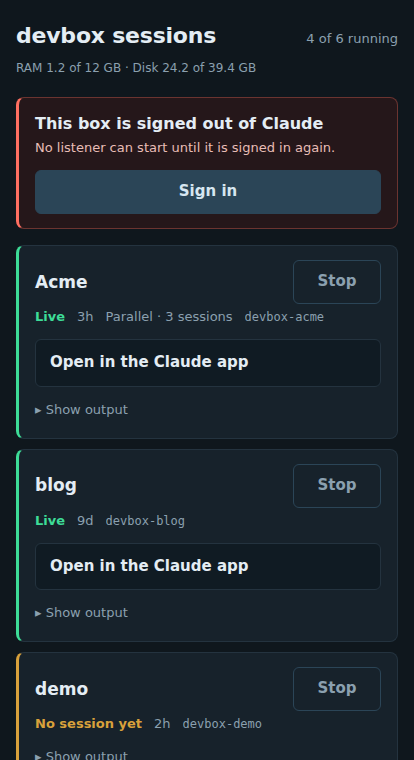
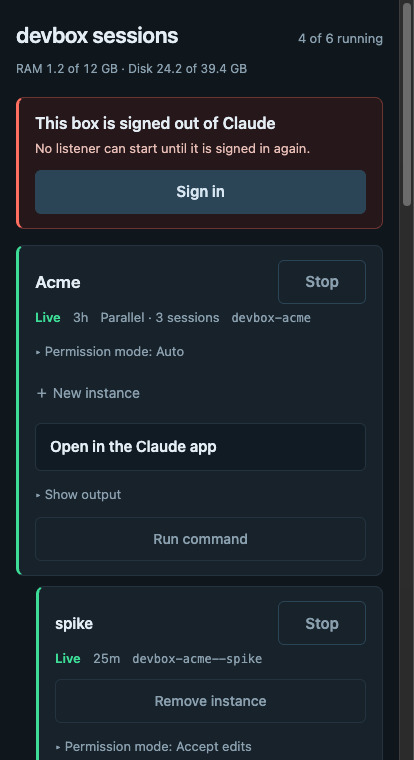
docs: screenshots show permission mode, an instance and Run command
The demo server now fabricates an instance row (acme--spike), permission
modes on three rows and one finished Run command, so the README images
show the launcher as it is. A third image shows the Run command modal.

diff --git a/docs/demo_server.py b/docs/demo_server.py
@@ -16,8 +16,10 @@ from pathlib import Path
 
 import uvicorn
 
+from launcher import discovery
 from launcher.app import create_app
 from launcher.discovery import Project
+from launcher.runctl import RunStatus
 from launcher.tmuxctl import CONNECTED, FAILED, READY, STOPPED, Status
 
 BASE = Path.home() / "projects"
@@ -38,6 +40,9 @@ STATUSES = {
     # A group project running several sessions in worktree mode.
     "acme": Status(running=True, state=CONNECTED, age=10_800, sessions=3,
                    url="https://claude.ai/code?environment=env_01Rb8TnKqW3xMzJ5vHd7Ls2Y"),
+    # An instance of acme: its own worktree and branch, one live session.
+    "acme--spike": Status(running=True, state=CONNECTED, age=1_500, sessions=1,
+                          url="https://claude.ai/code?environment=env_01Tz6KpLmQr8WvXn3Hd4Jc9F"),
     # A listener you left up over a week ago — the age is the point.
     "blog": Status(running=True, state=CONNECTED, age=777_600, sessions=1,
                    url="https://claude.ai/code?environment=env_01Qw4NmPvXs2LtRk9Bd6Hy3C"),
@@ -75,6 +80,43 @@ class FakeState:
 
     def desired(self):
         return []                # nothing to restore: keeps boot reconcile quiet
+
+    def instances(self):
+        return {"acme": ["spike"]}   # one instance row, indented under acme
+
+    def permission_modes(self):
+        # Everything else shows the default chip ("Ask").
+        return {"acme": "auto", "acme--spike": "acceptEdits", "demo": "plan"}
+
+
+class FakeRunner:
+    """Run command: one finished command on blog, nothing elsewhere."""
+    RUNS = {"blog": RunStatus(exists=True, running=False, exit_code=0)}
+
+    def statuses(self):
+        return dict(self.RUNS)
+
+    def status(self, slug):
+        return self.RUNS.get(slug, RunStatus(False, False, None))
+
+    def output(self, slug):
+        return ("From github.com:you/blog\n * branch            main       -> FETCH_HEAD\n"
+                "Already up to date.\n")
+
+    def last(self, slug):
+        return {"command": "git pull github main", "cwd": str(BASE / "blog")}
+
+    def start(self, slug, command, cwd):
+        pass
+
+    def send_input(self, slug, text):
+        pass
+
+    def interrupt(self, slug):
+        pass
+
+    def close(self, slug):
+        pass
 
 
 class FakePointer:
@@ -115,6 +157,15 @@ class FakeDiscovery:
     def discover_projects(self, base_dir):
         return list(PROJECTS)
 
+    # Pure functions of their inputs; the real ones are what the page uses.
+    instance_of = staticmethod(discovery.instance_of)
+
+    def resolve_slug(self, base_dir, slug, instances=None):
+        for project in PROJECTS:
+            if project.slug == slug:
+                return project
+        return None
+
 
 def main() -> None:
     parser = argparse.ArgumentParser()
@@ -127,6 +178,9 @@ def main() -> None:
         base_dir_fn=lambda: BASE,
         tmx=FakeTmux(), disc=FakeDiscovery(), st=FakeState(), ptr=FakePointer(),
         git=FakeGit(), host=FakeHost(), auth=FakeAuth(signed_in=not args.signed_out),
+        # Run command is shown when a run user is configured, as on a real box
+        # that has opted in; the stub never runs anything.
+        runner=FakeRunner(), run_user="you@example.com",
     )
     uvicorn.run(app, host="127.0.0.1", port=args.port, log_level="warning")
 

diff --git a/README.md b/README.md
@@ -9,7 +9,7 @@ session in the Claude mobile app or at claude.ai/code.
 
 <p align="center">
   <img src="docs/images/launcher-sessions.png" width="380"
-       alt="The launcher on a phone: six projects, two live, one with no session yet, one failed with the CLI's error and a Retry button, and a stopped project showing a GitHub origin warning.">
+       alt="The launcher on a phone: six projects and one instance. Acme is live with three parallel sessions in Auto permission mode and has an indented instance row 'spike' with its own listener; blog is live with a finished Run command; demo has no session yet; webapp failed with the CLI's error and a Retry button; two stopped projects show Start, Parallel sessions and New instance, and one carries a GitHub origin warning.">
 </p>
 
 Every row is a project. The coloured rail is a health signal, not just
@@ -23,6 +23,16 @@ launcher lets you fix that from the phone too, without a shell:
 <p align="center">
   <img src="docs/images/launcher-signed-out.png" width="380"
        alt="A red banner reading 'This box is signed out of Claude — no listener can start until it is signed in again', with a Sign in button above the project list.">
+</p>
+
+Claude sometimes needs *you* to run a command — a production deploy, an
+interactive login — and over Remote Control you cannot type `! <cmd>` from the
+app. **Run command** runs it on the box, in the project's directory, with the
+output, any prompt and the exit code right there in the modal:
+
+<p align="center">
+  <img src="docs/images/launcher-run.png" width="380"
+       alt="The Run command modal over the blog row: the command 'git pull github main', its directory, the command's output, 'Finished — exit code 0', and Copy output and Done buttons.">
 </p>
 
 <sub>Screenshots are rendered from fabricated data by
@@ -218,9 +228,14 @@ To regenerate the README screenshots, serve the UI against fabricated data and
 capture it at a phone viewport (414 px wide):
 
 ```bash
-python docs/demo_server.py                 # http://127.0.0.1:8799/
-python docs/demo_server.py --signed-out    # the signed-out banner
+python docs/demo_server.py                 # http://127.0.0.1:8799/  (full page)
+python docs/demo_server.py --signed-out    # the signed-out banner   (viewport)
 ```
+
+The Run command modal is the third image: with the server in its default
+mode, send the `Tailscale-User-Login: you@example.com` header (the demo's
+configured run user), tap **Run command** on the `blog` row, and capture the
+viewport.
 
 ## License
 
